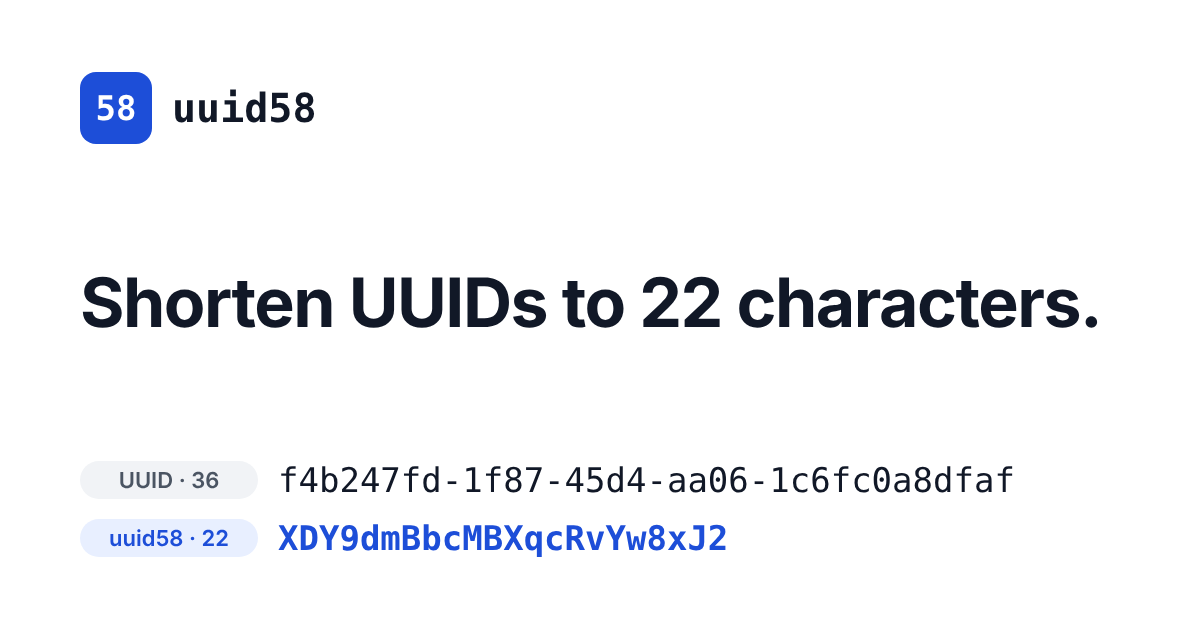
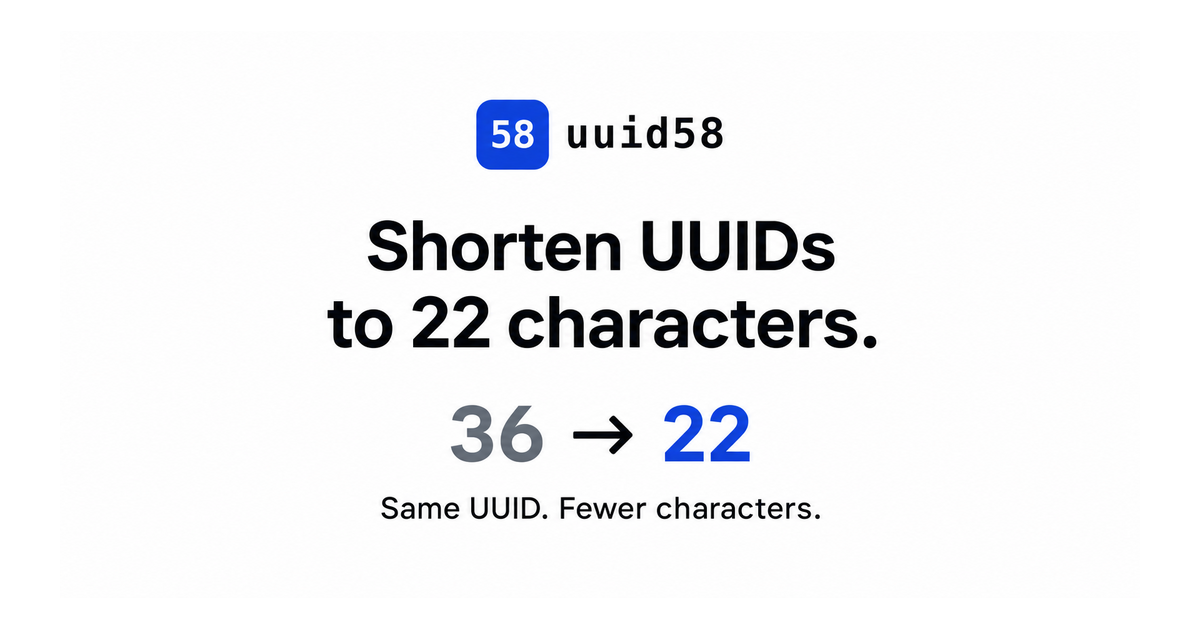
site: center OGP content for mobile previews

diff --git a/site/index.html b/site/index.html
@@ -32,7 +32,7 @@
     <meta property="og:image:height" content="630" />
     <meta
       property="og:image:alt"
-      content="uuid58: a 36-character UUID shortened to a 22-character Base58 string"
+      content="uuid58: Shorten UUIDs to 22 characters. 36 → 22. Same UUID. Fewer characters."
     />
     <meta name="twitter:card" content="summary_large_image" />
     <script type="application/ld+json">

diff --git a/site/spec/index.html b/site/spec/index.html
@@ -33,6 +33,10 @@
     />
     <meta property="og:image:width" content="1200" />
     <meta property="og:image:height" content="630" />
+    <meta
+      property="og:image:alt"
+      content="uuid58: Shorten UUIDs to 22 characters. 36 → 22. Same UUID. Fewer characters."
+    />
     <meta name="twitter:card" content="summary_large_image" />
     <script type="application/ld+json">
       {
